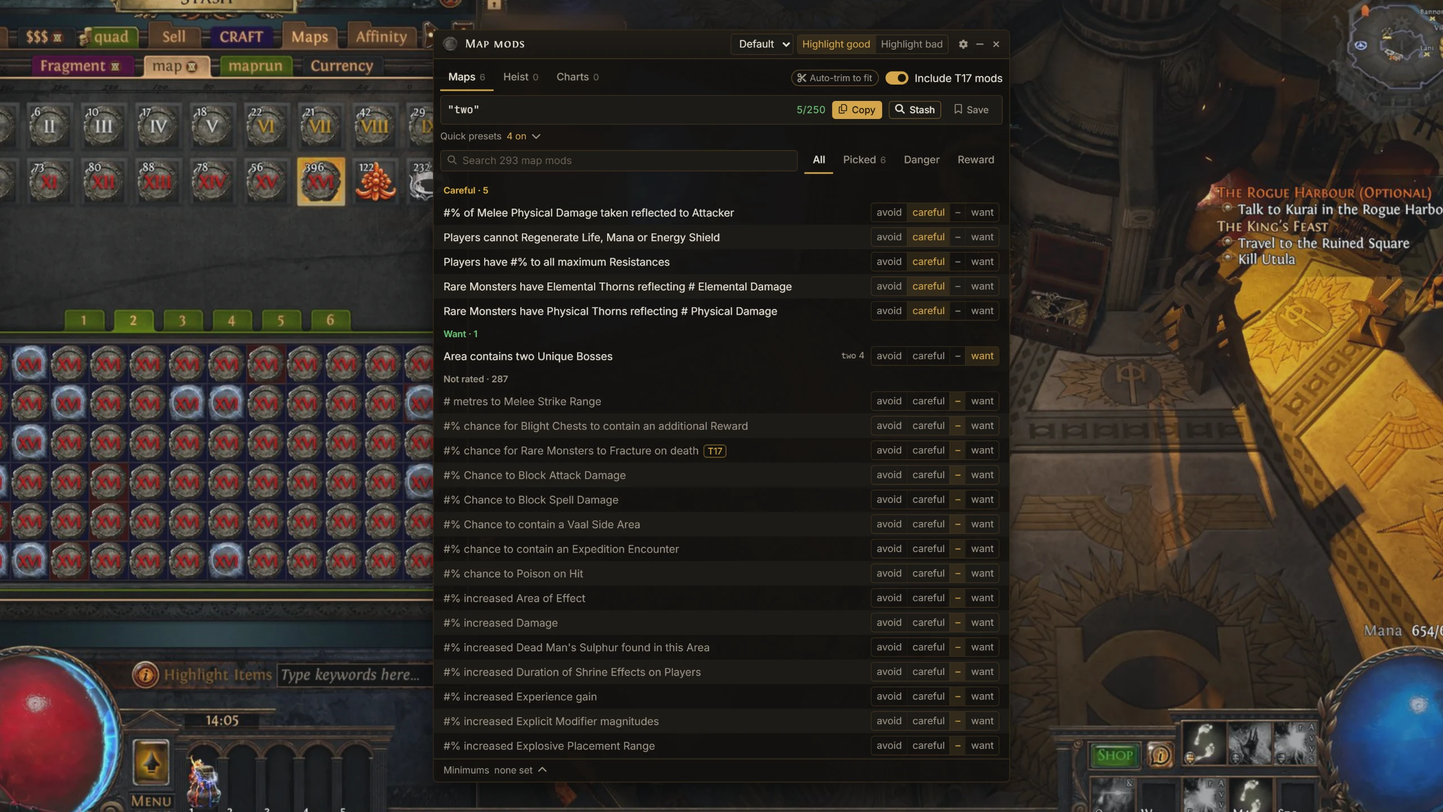
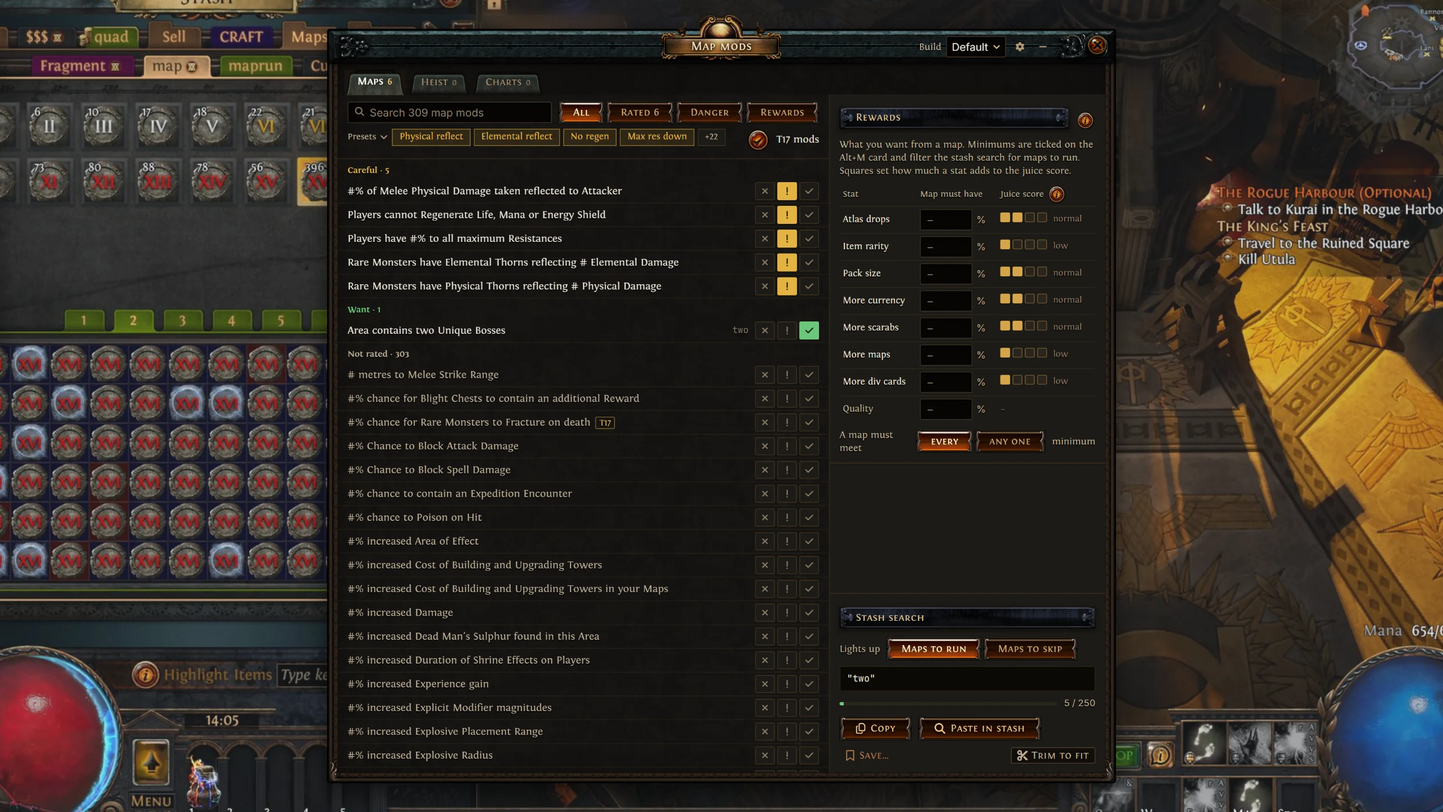
Landing page: slides for every feature since 13 Nov (#661)
* Landing page: 1.330.x slides and the latest release line

Guy's option C (mocks: claude.ai/artifact/RE1GguCZNVsswrAhxsVFkM):
- A line under the header with the latest GitHub release, its date and
  three headlines from its notes, read when the page loads; left out if
  GitHub doesn't answer.
- New slides: price check Mod menu, Sockets, Versions, Open affixes;
  Quick Search Lookups; Market Prices (replaces Price tracker).
- Rewritten: PoB tree and atlas strategies mention Alt+T; Regex maker
  shot and text for the two-pane map mods window.
- Shot tests for each in landing-highlights.spec.ts.

* Landing page: review fixes

Phone crops show what each caption names (affix caps, oil prices, the
7-day column); Mod menu and Versions text match their shots; the affix
caps shot shows a search with the caps.

* Landing page: no release line; slides for the features that had none

Guy's call: show every feature we can and update as we go, no what's-new
line. Drops release.js and the line; adds Saved searches, Stacked decks,
Run timer and Wickerman slides with shot tests.

---------

diff --git a/testing/e2e/landing-highlights.spec.ts b/testing/e2e/landing-highlights.spec.ts
@@ -1005,6 +1005,287 @@ test('setup: pick how you play', async ({ overlay, fakeApp }) => {
   await writeWebp(page, 'hl-setup', await page.screenshot())
 })
 
+// ---- 2026-11-20 refresh: 1.330.x features ----
+
+test('price check: right-click a mod for its menu', async ({ overlay }) => {
+  await statListings(overlay.page)
+  await overlay.boot()
+  await backdrop(overlay, 'frames/town-inventory.jpg')
+  await overlay.copyItem('items/rare-body-armour-es.txt')
+  const panel = overlay.widget('price-check')
+  await panel.getByRole('button', { name: 'Search' }).click()
+  await expect(panel.locator('tbody')).toContainText('1268', { timeout: 15_000 })
+  const life = panel.getByRole('button', { name: /maximum Life$/ }).first()
+  await life.click({ button: 'right' })
+  const menu = overlay.page.getByRole('menu')
+  await expect(menu.getByText('Always tick this')).toBeVisible()
+  await allflameLabel(overlay.page.locator('body'))
+  await saveAround(overlay, 'hl-pc-mod-menu', [panel.locator('.w-pc-table'), panel.getByText('Body Armour'), menu], 1240)
+})
+
+const SKIN_COLOURS = [['R', 'R', 'R', 'G', 'G', 'B'], ['R', 'R', 'R', 'G', 'G', 'B'], ['R', 'R', 'G', 'G', 'G', 'B'], ['B', 'B', 'B', 'B', 'G', 'G'], ['R', 'R', 'R', 'G', 'B', 'B']]
+
+test('price check: socket colour tiles', async ({ overlay }) => {
+  await overlay.page.route('**/api/trade/search/**', (route) => route.fulfill({
+    contentType: 'application/json',
+    headers: LIMITS,
+    body: JSON.stringify({ id: 'q', total: 17, result: SKIN_COLOURS.map((_, i) => `r${i}`) })
+  }))
+  await overlay.page.route('**/api/trade/fetch/**', (route) => route.fulfill({
+    contentType: 'application/json',
+    headers: LIMITS,
+    body: JSON.stringify({
+      result: route.request().url().split('/fetch/')[1].split('?')[0].split(',').map(id => ({
+        id,
+        item: {
+          ilvl: 84,
+          frameType: 3,
+          corrupted: true,
+          name: 'Skin of the Lords',
+          typeLine: 'Simple Robe',
+          sockets: SKIN_COLOURS[Number(id.slice(1))].map(sColour => ({ group: 0, sColour })),
+          explicitMods: ['Sockets cannot be modified', '+2 to Level of Socketed Gems', 'Iron Reflexes']
+        },
+        listing: {
+          indexed: new Date().toISOString(),
+          fee: 1,
+          price: { amount: 3 + Number(id.slice(1)) * 0.5, currency: 'divine' },
+          account: { name: `seller${id}`, lastCharacterName: `char${id}` }
+        }
+      }))
+    })
+  }))
+  await overlay.boot()
+  await backdrop(overlay, 'frames/town-inventory.jpg')
+  await overlay.copyItem('items/unique-skin-of-the-lords.txt')
+  const panel = overlay.widget('price-check')
+  await expect(panel.locator('[data-socket-colour]')).toHaveCount(4)
+  const search = panel.getByRole('button', { name: 'Search' })
+  if (await search.isVisible()) await search.click()
+  await expect(panel.locator('.w-pc-sdots').nth(1).locator('.w-pc-sdot')).toHaveCount(6)
+  await overlay.page.mouse.move(1900, 1060)
+  await allflameLabel(overlay.page.locator('body'))
+  await saveAround(overlay, 'hl-pc-sockets', [panel.locator('.w-pc-table'), panel.locator('[data-socket-colour]')], 1240)
+})
+
+const TRANSIENCE = `Item Class: Skill Gems
+Rarity: Gem
+Eye of Winter of Transience
+--------
+Projectile, Spell, Cold, Duration
+Level: 21 (Max)
+Cost: 20 Mana
+Cast Time: 0.70 sec
+Quality: +20% (augmented)
+--------
+Requirements:
+Level: 72
+Int: 155
+--------
+Fires a projectile.
+--------
+Experience: 1/1
+--------
+Place into an item socket of the right colour to gain this skill. Right click to remove from a socket.
+--------
+Corrupted`
+
+test('price check: a gem\'s other versions, priced', async ({ overlay }) => {
+  // Real poe.ninja prices for this gem on 2026-11-16.
+  const versions: Array<[string, number]> = [['21/23c', 155], ['21/20c', 90], ['21c', 30], ['20/20', 25], ['20/20c', 20], ['1/20', 10], ['1', 3]]
+  await overlay.page.route('**/dense/overviews**', (route) => {
+    const data = JSON.parse(fixtureText('http/poe.ninja/poe1/api/economy/current/dense/overviews.json'))
+    const gems = data.itemOverviews.find((o: { type: string }) => o.type === 'SkillGem')
+    gems.lines.push(...versions.map(([variant, chaos]) => ({ name: 'Eye of Winter of Transience', variant, chaos, graph: [0, 0, 0, 0, 0, 0, 0] })))
+    return route.fulfill({ contentType: 'application/json', body: JSON.stringify(data) })
+  })
+  await overlay.page.route('**/api/trade/search/**', (route) => route.fulfill({
+    contentType: 'application/json',
+    headers: LIMITS,
+    body: JSON.stringify({ id: 'q', total: 31, result: ['r0', 'r1', 'r2', 'r3'] })
+  }))
+  await overlay.page.route('**/api/trade/fetch/**', (route) => route.fulfill({
+    contentType: 'application/json',
+    headers: LIMITS,
+    body: JSON.stringify({
+      result: route.request().url().split('/fetch/')[1].split('?')[0].split(',').map((id, i) => ({
+        id,
+        item: { frameType: 4, name: '', typeLine: 'Eye of Winter of Transience', corrupted: true },
+        listing: {
+          indexed: new Date().toISOString(),
+          fee: 1,
+          price: { amount: 28 + i * 2, currency: 'chaos' },
+          account: { name: `seller${id}`, lastCharacterName: `char${id}` }
+        }
+      }))
+    })
+  }))
+  await overlay.boot()
+  await backdrop(overlay, 'frames/town-inventory.jpg')
+  await overlay.copyItem(TRANSIENCE)
+  const panel = overlay.widget('price-check')
+  await expect(panel.locator('[data-gem-versions]').getByRole('row')).toHaveCount(8)
+  await expect(panel.locator('tbody').last()).toContainText('34', { timeout: 15_000 })
+  await overlay.page.mouse.move(1900, 1060)
+  await allflameLabel(overlay.page.locator('body'))
+  await saveAround(overlay, 'hl-pc-versions', [panel.locator('[data-gem-versions]'), panel.getByText('Eye of Winter of Transience').first()], 1240)
+})
+
+test('price check: open affixes and any mod', async ({ overlay }) => {
+  await statListings(overlay.page)
+  await overlay.boot()
+  await backdrop(overlay, 'frames/town-inventory.jpg')
+  await overlay.copyItem('items/rare-body-armour-es.txt')
+  const panel = overlay.widget('price-check')
+  const search = panel.getByRole('button', { name: 'Search' })
+  if (await search.isVisible()) await search.click()
+  await expect(panel).toContainText('Matched', { timeout: 20_000 })
+  const prefix = panel.locator('[data-affix-cap="prefix"]:visible')
+  await prefix.locator('input').fill('2')
+  await prefix.locator('input').press('Tab')
+  await panel.getByRole('button', { name: 'Search' }).click()
+  await expect(panel.locator('tbody').last()).toContainText('1268', { timeout: 15_000 })
+  const box = panel.getByRole('combobox', { name: 'Add a mod to search for' })
+  await box.click()
+  await box.fill('movement speed')
+  await expect(panel.getByRole('option').first()).toBeVisible()
+  await allflameLabel(overlay.page.locator('body'))
+  await saveAround(overlay, 'hl-pc-affixes', [panel.locator('.w-pc-table'), panel.getByText('Body Armour'), panel.getByRole('option').first()], 1240)
+})
+
+test('search: anoints, crafts and recipes', async ({ overlay }) => {
+  await liveNinja(overlay.page)
+  await overlay.boot()
+  await backdrop(overlay, 'frames/hideout.jpg')
+  const { panel, palette } = await searchFor(overlay, 'arc tower chains', /Arc Towers/)
+  await panel.getByRole('button', { name: /Arc Towers/ }).first().click()
+  await expect(panel.getByText(/Amber/).first()).toBeVisible()
+  await overlay.page.mouse.move(1900, 1060)
+  await allflameLabel(palette)
+  await saveAround(overlay, 'hl-search-lookups', [palette], 1240)
+})
+
+test('market: a poe.ninja-style price list', async ({ overlay }) => {
+  await liveNinja(overlay.page)
+  await overlay.boot({
+    overlayActive: true,
+    widgets: [{ wmType: 'woke-market-tracker', wmWants: 'show', wmFlags: ['uninitialized'], anchor: { pos: 'tl', x: 4, y: 12 } }]
+  })
+  await backdrop(overlay, 'frames/town.jpg')
+  const panel = overlay.widget('woke-market-tracker')
+  const side = panel.getByRole('navigation', { name: 'Categories' })
+  await expect(side.getByRole('button', { name: /^Currency\s*\d+$/ })).toBeVisible({ timeout: 20_000 })
+  await expect(panel.locator('.w-row:not(.w-row--head)').first()).toBeVisible()
+  await overlay.page.waitForTimeout(1500)
+  await overlay.page.mouse.move(1900, 1060)
+  await saveAround(overlay, 'hl-market-prices', [panel.locator('[data-w-panel]').first()], 1280)
+})
+
+test('on screen: the Wickerman window', async ({ overlay }) => {
+  await liveNinja(overlay.page)
+  await overlay.boot({
+    overlayActive: true,
+    widgets: [{ wmType: 'woke-wickerman', wmWants: 'show', wmFlags: ['uninitialized'], anchor: { pos: 'tl', x: 4, y: 12 } }]
+  })
+  await backdrop(overlay, 'frames/town.jpg')
+  const panel = overlay.widget('woke-wickerman')
+  await expect(panel.locator('[data-woke-wickerman-row]', { hasText: "Warden's Arm" })).toContainText('to maximum Life', { timeout: 20_000 })
+  await overlay.page.waitForTimeout(1500)
+  await overlay.page.mouse.move(1900, 1060)
+  await saveAround(overlay, 'hl-wickerman', [panel.locator('[data-w-panel]').first()], 1280)
+})
+
+test('on screen: the run timer and its timeline', async ({ overlay }) => {
+  const line = (time: string, text: string) => `2026/11/04 ${time} 1 abc [INFO Client 1] ${text}`
+  // The log's own day, or the run clock counts up to today.
+  await overlay.page.clock.setFixedTime(new Date(2026, 10, 4, 18, 28, 30))
+  await overlay.boot({
+    widgets: [{
+      wmType: 'woke-run-timer',
+      wmWants: 'show',
+      wmFlags: ['invisible-on-blur'],
+      anchor: { pos: 'tl', x: 4, y: 12 },
+      autoStart: true,
+      charName: '',
+      expanded: true,
+      compareTo: null,
+      subSplits: true,
+      run: null,
+      history: [],
+      lastLogAt: new Date(2026, 10, 4, 17, 59, 0).getTime()
+    } as never],
+    overlayActive: true,
+    logBefore: [...logFixture('client-logs/campaign-act1.txt'), line('18:27:00', ': WokeTester has been slain.')]
+  })
+  await backdrop(overlay, 'frames/town.jpg')
+  const timer = () => overlay.savedWidget('woke-run-timer') as { run?: { splits?: unknown[] }, history?: unknown[] } | undefined
+  await expect.poll(() => timer()?.run?.splits?.length, { timeout: 15_000 }).toBe(1)
+  const panel = overlay.widget('woke-run-timer')
+  await panel.getByText('Timeline', { exact: true }).click()
+  await expect(panel).toContainText('The Coast')
+  await overlay.page.mouse.move(1900, 1060)
+  await saveAround(overlay, 'hl-run-timer', [panel.locator('[data-w-panel]').first()], 1120)
+})
+
+test('price check: saved trade searches', async ({ overlay }) => {
+  const now = Date.now()
+  const DAY = 86_400_000
+  const url = (id: string, live = false) => `https://www.pathofexile.com/trade/search/Allflame/${id}${live ? '/live' : ''}`
+  const entry = (id: number, name: string, category: string, extra: Record<string, unknown> = {}) =>
+    ({ id, name, url: url(String(id), extra.live === true), category, tags: [], notes: '', hotkeyOverlay: null, hotkeyExternal: null, ...extra })
+  await overlay.boot({
+    overlayActive: true,
+    widgets: [{
+      wmType: 'woke-trade-searches',
+      wmWants: 'show',
+      wmFlags: [],
+      wmTitle: 'Trade searches',
+      enableHotkeys: false,
+      anchor: { pos: 'tl', x: 4, y: 12 },
+      folders: [{ name: 'Boots to flip', icon: 'item:Divine Orb' }, { name: 'Gems', icon: 'mechanic:essence' }],
+      entries: [
+        entry(1, 'Two-Toned Boots: Fire Resistance, Movement Speed', 'Boots to flip', { lastOpened: now - 60_000, openCount: 7 }),
+        entry(2, 'Two-Toned Boots: Cold Resistance, Movement Speed', 'Boots to flip', { lastOpened: now - 3 * DAY, openCount: 4 }),
+        entry(3, 'Mageblood live snipe', 'Uniques', { live: true, pinned: true, lastOpened: now - 2 * 3600_000, openCount: 12 }),
+        entry(4, 'Spark 21/20', 'Gems', { lastOpened: now - DAY, openCount: 1 }),
+        entry(5, 'Awakened Multistrike Support 5/20', 'Gems', {}),
+        entry(6, 'Rare ring: life, two resistances', 'Saved from price check', {})
+      ]
+    } as never]
+  })
+  await backdrop(overlay, 'frames/hideout.jpg')
+  const w = overlay.widget('woke-trade-searches')
+  await expect(w.getByRole('navigation', { name: 'Folders' })).toBeVisible({ timeout: 15_000 })
+  await overlay.page.waitForTimeout(800)
+  await overlay.page.mouse.move(1900, 1060)
+  await saveAround(overlay, 'hl-trade-searches', [w.locator('[data-w-panel]').first()], 1120)
+})
+
+test('market: stacked decks, counted from the log', async ({ overlay }) => {
+  const dense = JSON.parse(fixtureText('http/poe.ninja/poe1/api/economy/current/dense/overviews.json'))
+  dense.currencyOverviews.find((o: { type: string }) => o.type === 'Currency').lines.push({ name: 'Stacked Deck', chaos: 3, graph: [0, 0, 0, 0, 0, 0, 0] })
+  dense.itemOverviews.find((o: { type: string }) => o.type === 'DivinationCard').lines.push({ name: 'The Lover', chaos: 1, graph: [0, 0, 0, 0, 0, 0, 0] })
+  await overlay.page.route('**/dense/overviews*', route => route.fulfill({ json: dense }))
+  let tick = 3725546
+  const card = (name: string) => `2026/11/08 18:04:11 ${tick++} 1186a8a3 [INFO Client 4567] : Card drawn from the deck: <divination>{${name}}`
+  await overlay.boot({
+    patch: (config: any) => {
+      lowDock(config)
+      const w = config.widgets.find((x: { wmType: string }) => x.wmType === 'woke-stacked-decks')
+      Object.assign(w, { session: null, seenUntil: 0, hitDiv: 1, hitPopup: false, hitSound: false })
+    }
+  })
+  await backdrop(overlay, 'frames/hideout.jpg')
+  const cards = ['Rain of Chaos', 'The Lover', 'Rain of Chaos', 'The Doctor', 'Rain of Chaos', 'The Lover', 'Rain of Chaos', 'Rain of Chaos']
+  await overlay.log(cards.map(card))
+  const icon = overlay.dockIcon('stacked-decks')
+  await expect(icon).toBeVisible({ timeout: 15_000 })
+  await overlay.hoverDockIcon('stacked-decks')
+  await expect(icon.locator('[data-deck="stats"] [data-stat="opened"]')).toHaveText(String(cards.length))
+  await expect(icon.locator('[data-deck="stats"] [data-stat="spent"]')).toHaveText('24 c', { timeout: 15_000 })
+  await saveLow(overlay, 'hl-stacked-decks')
+})
+
 // ---- Clips: the same setups, recorded while the overlay is used ----
 //
 //   WOKE_LANDING_CLIPS=1 npx playwright test landing-highlights -g "clip:"

diff --git a/docs/.vitepress/theme/landing/content.js b/docs/.vitepress/theme/landing/content.js
@@ -24,6 +24,11 @@ export const HIGHLIGHTS = [
     slides: [
       { label: 'Competing listings', module: 'apt-price-check', shot: 'clip-price-check', clip: 'clip-price-check', focus: [900, 0, 1152], text: 'Every listing beside yours, stat by stat. Green where yours is better, red where theirs is. Hover one to see its tiers and rolls.', alt: 'Price check of a body armour: the mouse moves down the listings, each compared stat by stat to yours, and the tooltip of each opens with its mod tiers' },
       { label: 'Listing tooltip', module: 'apt-price-check', shot: 'hl-price-tooltip', focus: [1060, 90, 920], text: 'Hover a listing to see the item as the game shows it, with mod tiers and a line under each mod showing how good its roll is.', alt: 'Tooltip of a listed body armour with the tier and roll quality of each mod' },
+      { label: 'Mod menu', module: 'apt-price-check', shot: 'hl-pc-mod-menu', focus: [830, 120, 920], text: 'Right-click a mod to search only it, set its minimum from its tier, or always tick it on later checks.', alt: 'Price check of a body armour with the right-click menu of its life row: search only this, minimums and tick choices' },
+      { label: 'Sockets', module: 'apt-price-check', shot: 'hl-pc-sockets', focus: [780, 60, 1000], text: 'Socket colours as tiles you can switch off, and each listing\'s sockets as coloured dots. Right-click Links for the tiles on any item.', alt: 'Price check of Skin of the Lords: R, G and B tiles beside the name, and each listing\'s sockets as dots' },
+      { label: 'Versions', module: 'apt-price-check', shot: 'hl-pc-versions', focus: [780, 60, 1000], text: 'A gem\'s other levels and qualities with poe.ninja prices. Click one to search it.', alt: 'Price check of a corrupted level 21 gem listing its seven versions with poe.ninja prices' },
+      { label: 'Open affixes', module: 'apt-price-check', shot: 'hl-pc-affixes', focus: [760, 200, 900], text: 'Pre ≤ and Suf ≤ find items with a prefix or suffix still open. Add any mod to the search by typing its name.', alt: 'Price check of a body armour with Pre ≤ 2 set and the add-a-mod box listing movement speed mods' },
+      { label: 'Saved searches', module: 'trade-searches', shot: 'hl-trade-searches', focus: [180, 60, 1100], text: 'Save a price check\'s trade search, then reopen it, or its live search, from a folder.', alt: 'Trade searches window: folders of saved searches with when each was last opened, and a pinned live search' }
     ]
   },
   {
@@ -35,7 +40,7 @@ export const HIGHLIGHTS = [
       { label: 'Gear and links', module: 'pob-builds', shot: 'hl-pob-gear', focus: [800, 130, 920], text: 'Your gear and links from PoB. Search any item to price check it.', alt: 'A build\'s gear tab with an item tooltip and a price check button on each item' },
       { label: 'Levelling', module: 'pob-builds', shot: 'hl-pob-levelling', focus: [780, 220, 900], text: 'Gems by level, and where to get each one.', alt: 'A build\'s leveling tab: gem links, and each gem by level with its vendor or quest' },
       { label: 'Next step', module: 'pob-builds', shot: 'hl-pob-next', focus: [770, 160, 900], text: 'What changes in your next tree, gems and gear, before you get there.', alt: 'The Next section of a build: new passive points, gems to add and drop, and the gear that changes' },
-      { label: 'Passive tree', module: 'pob-builds', shot: 'hl-pob-tree', focus: [900, 190, 1000], text: 'The tree right in the overlay: your points in gold, new ones in green, respecs in red.', alt: 'Passive tree panel with allocated paths, new points and a list of what the next tree adds and removes' },
+      { label: 'Passive tree', module: 'pob-builds', shot: 'hl-pob-tree', focus: [900, 190, 1000], text: 'The tree right in the overlay: your points in gold, new ones in green, respecs in red. Alt+T draws it over the game\'s own tree.', alt: 'Passive tree panel with allocated paths, new points and a list of what the next tree adds and removes' },
       { label: 'Stage costs', module: 'pob-builds', shot: 'hl-pob-costs', focus: [770, 150, 900], text: 'What the uniques in each stage of the build cost at poe.ninja prices, with the rares to search for.', alt: 'Gear tab with the cost of each stage, and one stage opened to its uniques and rares' },
       { label: 'Compare builds', module: 'pob-builds', shot: 'hl-pob-compare', focus: [690, 0, 1150], text: 'Pick any two of your builds to see how their stats, gear, gems and tree differ.', alt: 'Compare builds panel: the gear that differs, the gems only one has, and tree differences' },
       { label: 'Swap check', module: 'pob-builds', shot: 'hl-pob-swap', focus: [800, 128, 1100], text: 'Price check a piece of gear and compare its numbers to what your build wears.', alt: 'Price check of a body armour with a tooltip comparing its numbers to the build\'s body armour' },
@@ -62,9 +67,10 @@ export const HIGHLIGHTS = [
       { label: 'Flips', module: 'scarab-flip', shot: 'hl-flips', focus: [310, 100, 900], text: 'Vendor recipes and Harvest rerolls that pay today, sorted by profit.', alt: 'Flips window: scarabs worth vendoring, with price, profit and supply' },
       { label: 'Disenchant', module: 'disenchant', shot: 'hl-disenchant', focus: [380, 140, 1040], text: 'Every unique ranked by Thaumaturgic Dust per chaos at today\'s prices, with the gold fee if you want it counted.', alt: 'Disenchant window: uniques ranked by dust per chaos, with price, dust and gold fee' },
       { label: 'Boss runs', module: 'boss-runs', shot: 'tour-boss-runs', focus: [600, 140, 1040], text: 'Every boss costed from entry and drops, per run and per hour, with a luck check.', alt: 'Boss runs window: Uber Atziri loot, profit per run and the luck check' },
-      { label: 'Price tracker', module: 'market', shot: 'tour-market', focus: [80, 120, 900], text: 'poe.ninja prices kept as history on your PC, with movers and a watchlist.', alt: 'Market tracker watchlist with a gem\'s tooltip, beside the flips window' },
+      { label: 'Prices', module: 'market', shot: 'hl-market-prices', focus: [295, 20, 1135], text: 'Every poe.ninja category in one window, with the last 7 days. Movers and a watchlist are in the next tabs.', alt: 'Market window on Currency: categories down the side, each item with its value and 7-day line' },
       { label: 'Lab gems', module: 'lab-gems', shot: 'hl-lab-gems', focus: [300, 100, 900], text: 'What each Divine Font roll is worth today, by gem colour and level.', alt: 'Lab gems window: value of red, green and blue gems at each level and quality' },
-      { label: 'Investments', module: 'league-invest', shot: 'hl-invest', focus: [100, 30, 920], text: 'What rose most reliably from this day in past leagues, split across your budget.', alt: 'League investments window: a suggested split of a 5 divine budget, and items ranked by how often they rose' }
+      { label: 'Investments', module: 'league-invest', shot: 'hl-invest', focus: [100, 30, 920], text: 'What rose most reliably from this day in past leagues, split across your budget.', alt: 'League investments window: a suggested split of a 5 divine budget, and items ranked by how often they rose' },
+      { label: 'Stacked decks', module: 'stacked-decks', shot: 'hl-stacked-decks', focus: [710, 300, 760], text: 'Open decks and it counts the cards from your game log: what you spent, what you got and the result, priced.', alt: 'Stacked decks card: 8 opened, 24c spent, The Doctor drawn, result +4.9 div' }
     ]
   },
   {
@@ -90,6 +96,8 @@ export const HIGHLIGHTS = [
         ]
       },
       { label: 'Campaign', module: 'campaign', shot: 'hl-campaign', focus: [720, 430, 800], text: 'Your zone, your level against it, the next steps and your run timer.', alt: 'Campaign card: the current zone, level and the next steps' },
+      { label: 'Run timer', module: 'run-timer', shot: 'hl-run-timer', focus: [100, 120, 900], text: 'Splits for every act and zone, your level over time and your deaths, kept for each run.', alt: 'Run timer timeline: act bars, a level chart and the time in each Act 1 zone' },
+      { label: 'Wickerman', module: 'wickerman', shot: 'hl-wickerman', focus: [330, 60, 1100], text: 'Every 3.30 Viscera with its mod, the bosses that drop it and where they are.', alt: 'Wickerman window: Viscera by slot, each with its mod and the bosses and maps it drops in' },
       { label: 'Challenges', module: 'challenges', shot: 'hl-challenges', focus: [700, 420, 720], text: 'Your count and what is next, on one small icon.', alt: 'Challenges card under a small icon: 23 of 40 and the next three' },
       { label: 'Lab run', module: 'lab', shot: 'hl-lab', focus: [900, 65, 1100], text: 'Today\'s layout stays one hover away while you run.', alt: 'Today\'s Normal Labyrinth layout in a card under a small icon' },
       { label: 'Drop counter', module: 'drop-counter', shot: 'hl-drop-counter', focus: [700, 330, 760], text: 'A tally of the drops you care about. Press +1 while you play, and maps count themselves.', alt: 'Drop counter card: maps run, and Divine Orb, Exalted Orb and Annulment counts with how long since the last' },
@@ -105,6 +113,7 @@ export const HIGHLIGHTS = [
       { label: 'Any price', shot: 'hl-search-price', focus: [180, 130, 900], text: 'Press Ctrl+Space and type. Any item\'s price now, a day ago and a week ago, without leaving the game.', alt: 'Search palette on Mageblood: each variant\'s price now, 24 hours ago and 7 days ago, with buttons for the wiki, poedb and the trade site' },
       { label: 'Compare', shot: 'hl-search-compare', focus: [190, 140, 900], text: 'Pin a few prices to keep them side by side while you look up the next one.', alt: 'Search palette with Divine Orb, Headhunter and Mirror of Kalandra pinned along the top' },
       { label: 'Item on hover', shot: 'hl-search-hover', focus: [560, 200, 900], text: 'Hover a result to see the item as the game shows it, with its price.', alt: 'Search palette with the Headhunter tooltip shown over its result' },
+      { label: 'Lookups', shot: 'hl-search-lookups', focus: [1320, 180, 1000], text: 'Bench and Harvest crafts, ring anoints with their oils, bestiary recipes, bosses and campaign zones, with today\'s prices.', alt: 'Search palette for arc tower chains: the Blight ring anoint with Amber and Golden Oil priced' },
       { label: 'Tools and settings', shot: 'hl-search-tools', focus: [190, 150, 900], text: 'It finds tools, actions and settings too. Paste an item from chat and it opens in price check.', alt: 'Search palette for "filter": the loot filter tool, a reload action with its hotkey, and the settings page' }
     ]
   },
@@ -115,7 +124,7 @@ export const HIGHLIGHTS = [
     slides: [
       { label: 'Map scan', module: 'map-scan', shot: 'hl-map-scan', focus: [500, 0, 1152], text: 'Press Alt+S on a map. It reads the tooltip and flags the mods you said to watch.', alt: 'Map scan reading a T16 map tooltip and marking it CARE for max res down' },
       { label: 'Essence scan', module: 'essence-scan', shot: 'hl-essence-scan', focus: [500, 0, 1152], text: 'Press Alt+E on a monolith to see whether corrupting it pays, at today\'s prices.', alt: 'Essence scan beside a monolith, saying CORRUPT with what each essence is worth' },
-      { label: 'Atlas strategies', module: 'atlas', shot: 'hl-atlas', focus: [700, 150, 900], text: 'Each strategy\'s tree, priced scarabs, map device and regex, in one place.', alt: 'Atlas strategies window: an essence strategy with its scarabs, map device, notes and what to allocate' }
+      { label: 'Atlas strategies', module: 'atlas', shot: 'hl-atlas', focus: [700, 150, 900], text: 'Each strategy\'s tree, priced scarabs, map device and regex, in one place. Alt+T draws the tree on the game\'s atlas.', alt: 'Atlas strategies window: an essence strategy with its scarabs, map device, notes and what to allocate' }
     ]
   },
   {
@@ -123,7 +132,7 @@ export const HIGHLIGHTS = [
     name: 'Regex',
     tag: 'Stop typing stash searches',
     slides: [
-      { label: 'Maker', module: 'map-mods', shot: 'hl-regex-maker', focus: [780, 60, 1010], text: 'Pick the map mods you avoid and want, and get the stash search for them.', alt: 'Map mods window: avoid, careful and want choices and the search string it builds' },
+      { label: 'Maker', module: 'map-mods', shot: 'hl-regex-maker', focus: [780, 60, 1010], text: 'Rate map mods as avoid, careful or want, set the rewards a map must have, and get the stash search.', alt: 'Map mods window: mods rated careful and want, the Rewards table, and the stash search it builds' },
       { label: 'Clipboard', module: 'regex-library', shot: 'hl-regex-clipboard', focus: [400, 120, 880], text: 'Your saved strings and the classics, one click from the stash search.', alt: 'Regex library with saved stash search strings' }
     ]
   },
